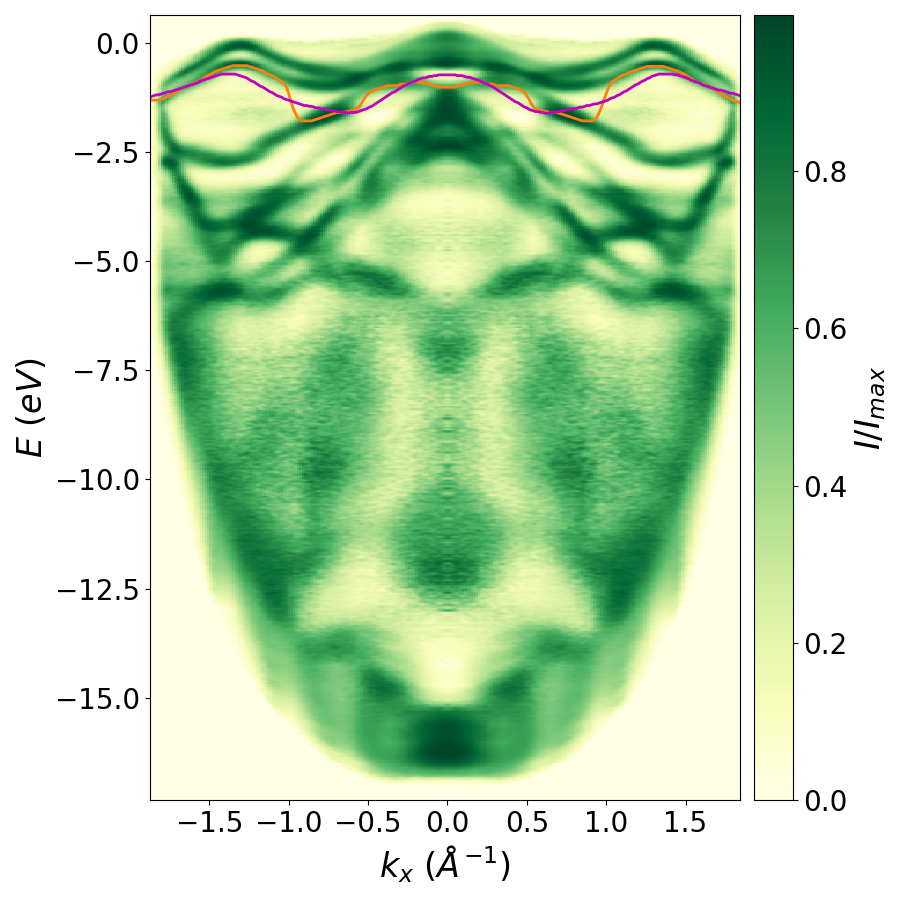
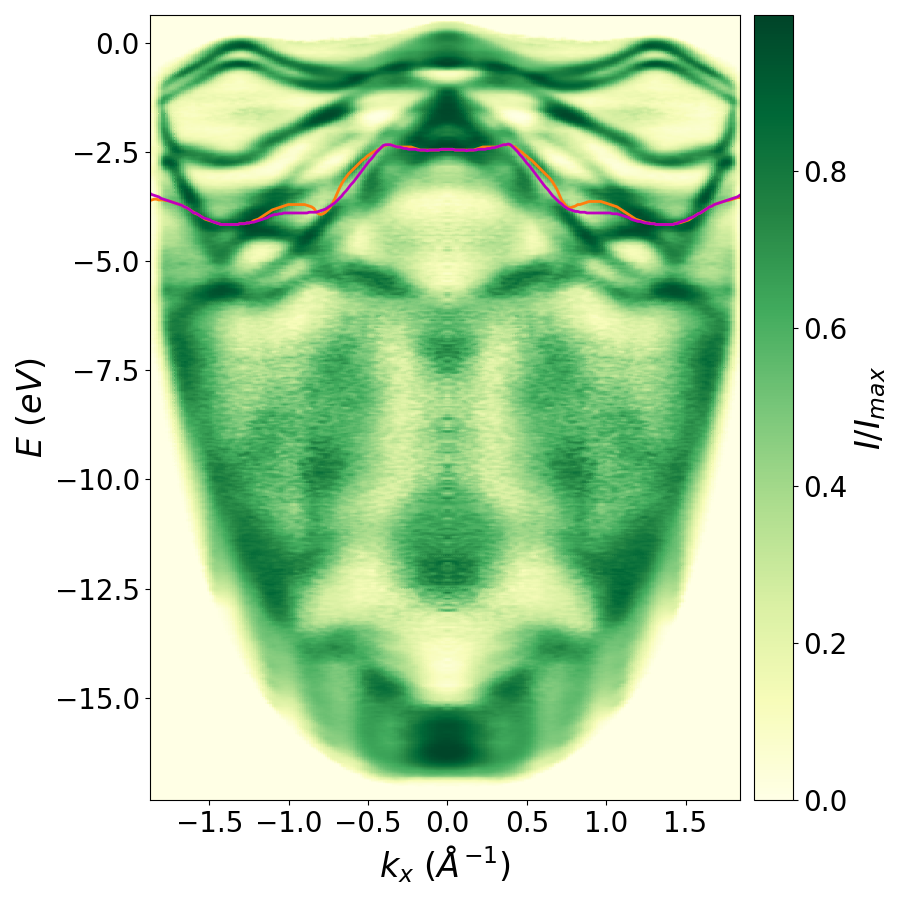
correct multiband reproduced

diff --git a/scripts/visualize_dft_bands.py b/scripts/visualize_dft_bands.py
@@ -20,31 +20,26 @@ paths = np.load(r'../data/processed/hslines/WSe2_kpath.npz')
 
 reconbands = {}
 
-num_bands = 1 # default
+num_bands = 30 # default
 
 bands = np.empty((num_bands, 256, 256))
 for i in range(num_bands):
     band = loadHDF(f'../results/band_data/mrf_rec_{i}.h5')
     kx, ky, Eb = band['kx'], band['ky'], band['Eb']
+    print(f'Eb #{i}', Eb)
     Eb.reshape(256, 256)
     bands[i] = Eb
     
 bdi = aly.bandpath_map(np.moveaxis(bands, 0, 2), pathr=paths['rowInds'], pathc=paths['colInds'], eaxis=2)
 reconbands["recon"] = bdi.T
 
+"""
 kx, ky, E = MrfRec.loadBandsMat('../data/theory/WSe2_PBEsol_bands.mat')
 # initialization bands
 print(kx.shape, ky.shape, E.shape)
 for i in range(num_bands):
     print(E[i])
-     
-
-
-for name in ['LDA', 'PBE', 'PBEsol', 'HSE']:
-    bands = np.load(r'../data/processed/wse2_recon/postproc_refrotsym_bands_'+name.lower()+'.npy')
-    print(name, bands.shape)
-    bdi = aly.bandpath_map(np.moveaxis(bands, 0, 2), pathr=paths['rowInds'], pathc=paths['colInds'], eaxis=2)
-    reconbands[name] = bdi.T
+"""  
 
 
 pos = paths['pathInds']
@@ -54,11 +49,8 @@ ff, axa = plt.subplots(1, 1, figsize=(10.5, 8))
 im = axa.imshow(bcsm, cmap='Blues', extent=[0, 185, elo, ehi], aspect=12)
 # axa.plot(dftbands['HSE'][:,:14] - hse_th_shift, 'r--', zorder=2)
 for ib in range(num_bands): # normally set to 14
-    axa.plot(reconbands['recon'][:,ib] + 0.65, color='r', zorder=1)
-# ab initio bands
-for ib in range(14):
-     pass
-     #axa.plot(reconbands['PBEsol'][:,ib] + 0.65, color='y', zorder=1)
+    axa.plot(reconbands['recon'][:,ib], color='r', zorder=1)
+
 axa.tick_params(axis='y', length=8, width=2, labelsize=15)
 axa.tick_params(axis='x', length=0, labelsize=15, pad=8)
 axa.set_ylim([elo, ehi])

diff --git a/scripts/band_reconstruction.py b/scripts/band_reconstruction.py
@@ -36,7 +36,7 @@ def reconstruct(band_index):
     """
 
       # there is a total of 80 different bands
-    offset = -0.2    # default was -0.1
+    offset = 0.5
     k_scale = 1.1
 
     kx_dft, ky_dft, E_dft = mrf.loadBandsMat(path_dft)
@@ -58,8 +58,8 @@ def reconstruct(band_index):
 
     # Run optimization to perform reconstruction
     print("training model...")
-    eta = 0.1 # default 0.1
-    n_epochs = 100 # default 150
+    eta = 0.1
+    n_epochs = 60 # loss plot shows -logp converges after n=60
 
     mrf.eta = eta
     mrf.iter_para(n_epochs, updateLogP=True)
@@ -88,7 +88,10 @@ def reconstruct(band_index):
 
     # think about maybe serializing the mrf for later use
 
+# parameter
+num_bands = 30
+
 # call the wrapper function
-for band_index in range(1):
+for band_index in range(num_bands):
     print(f"reconstructing the {band_index}th band...")
     reconstruct(band_index)
